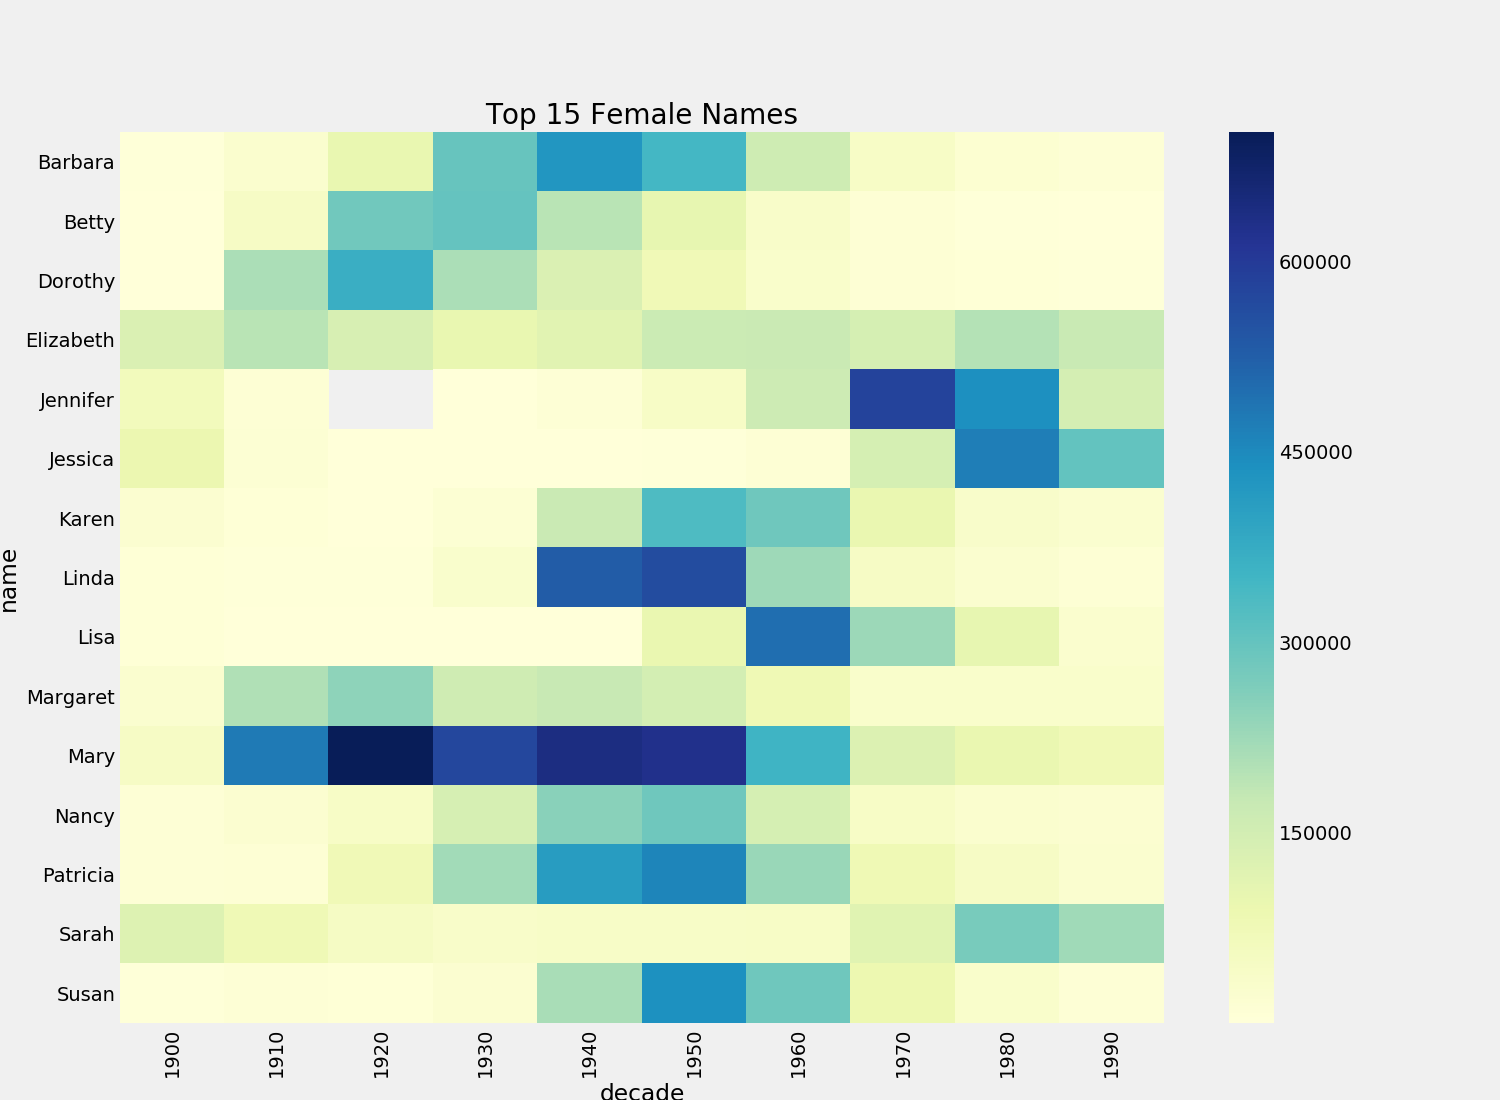
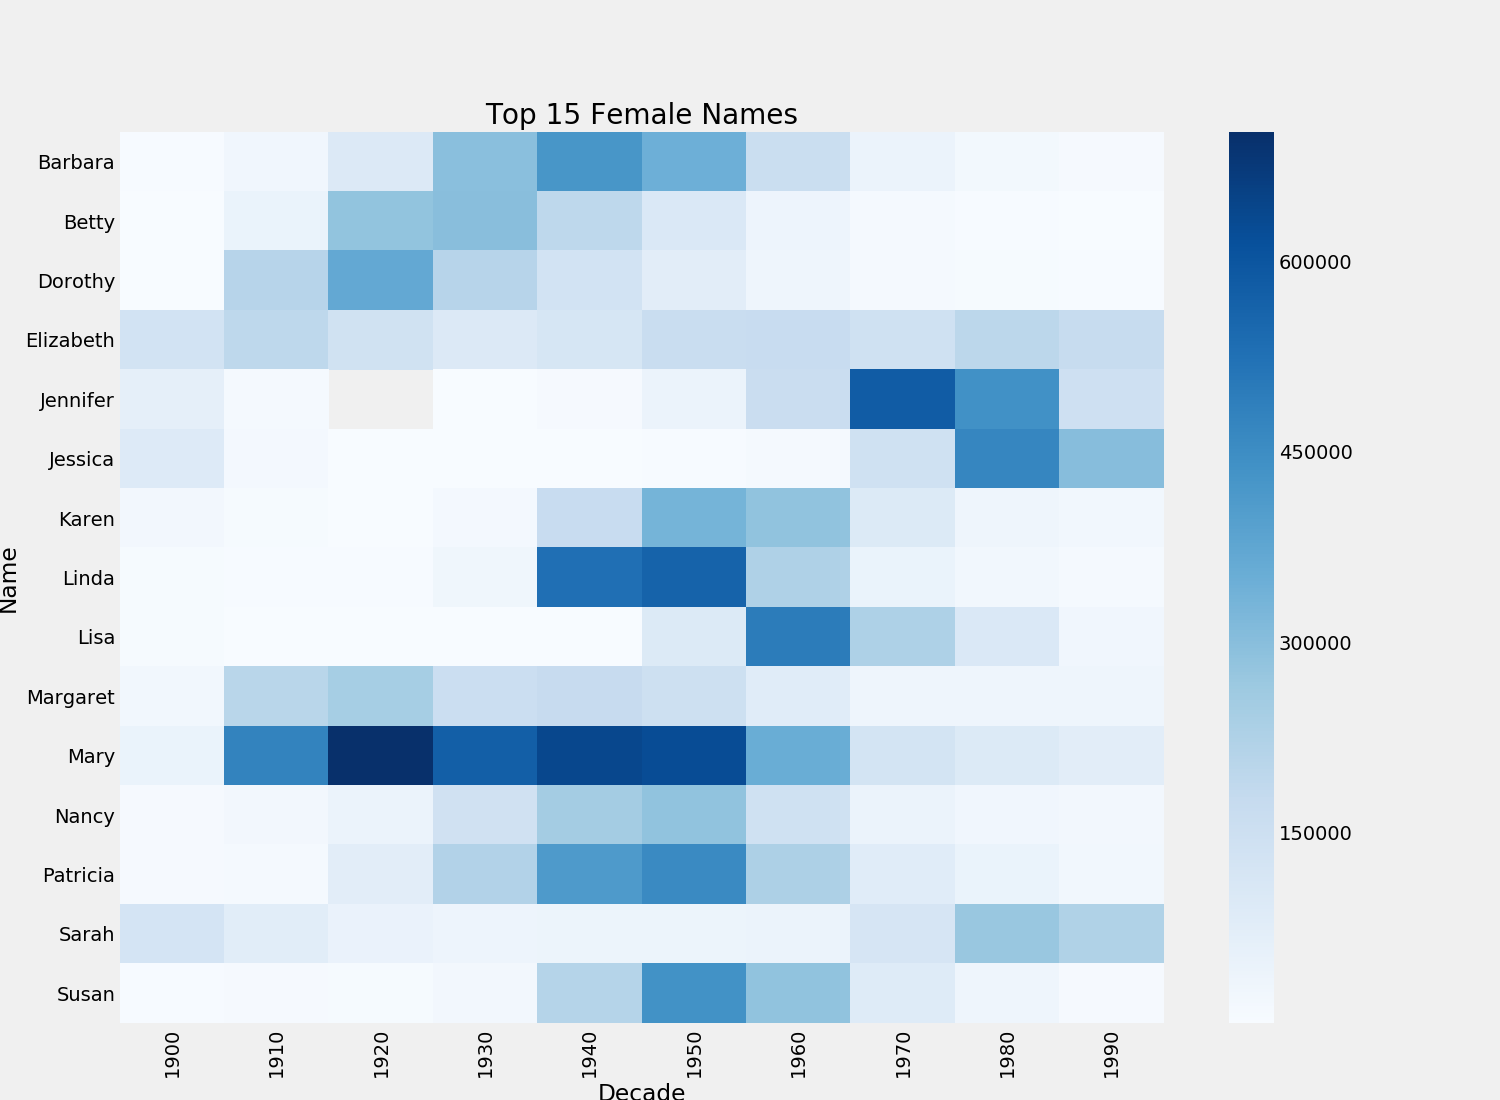
Seriously, plots are hard

diff --git a/USA_Names/plotting.py b/USA_Names/plotting.py
@@ -44,8 +44,10 @@ def heatmapper(df, gender, output_dir, save = True):
   output_dir += 'NameHeatmaps/'
   result = df.pivot(index = 'name', columns = 'decade', values = 'number')
   fig = plt.figure(figsize = (15, 11))
-  fig = sns.heatmap(result, cmap = 'YlGnBu')
+  fig = sns.heatmap(result, cmap = 'Blues')
   plt.xticks(rotation = 90)
+  plt.xlabel('Decade')
+  plt.ylabel('Name')
   fname = ' '.join(['Top', str(len(df['name'].unique())), gender, 'Names'])
   plt.title(fname)
 

diff --git a/USA_Names/USA_Names_EDA.py b/USA_Names/USA_Names_EDA.py
@@ -22,7 +22,7 @@ df['decade'] = 1900 + (df['year'] - (df['year']//100 * 100))//10 * 10
 gender_map = {'M': 'Male', 'F': 'Female'}
 df['gender'] = df['gender'].map(gender_map)
 
-set_size = 50
+set_size = 15
 agg_gender = df.groupby('gender').count()
 name_gender = df.groupby(['name', 'gender']).sum()
 name_gender = name_gender.reset_index()
